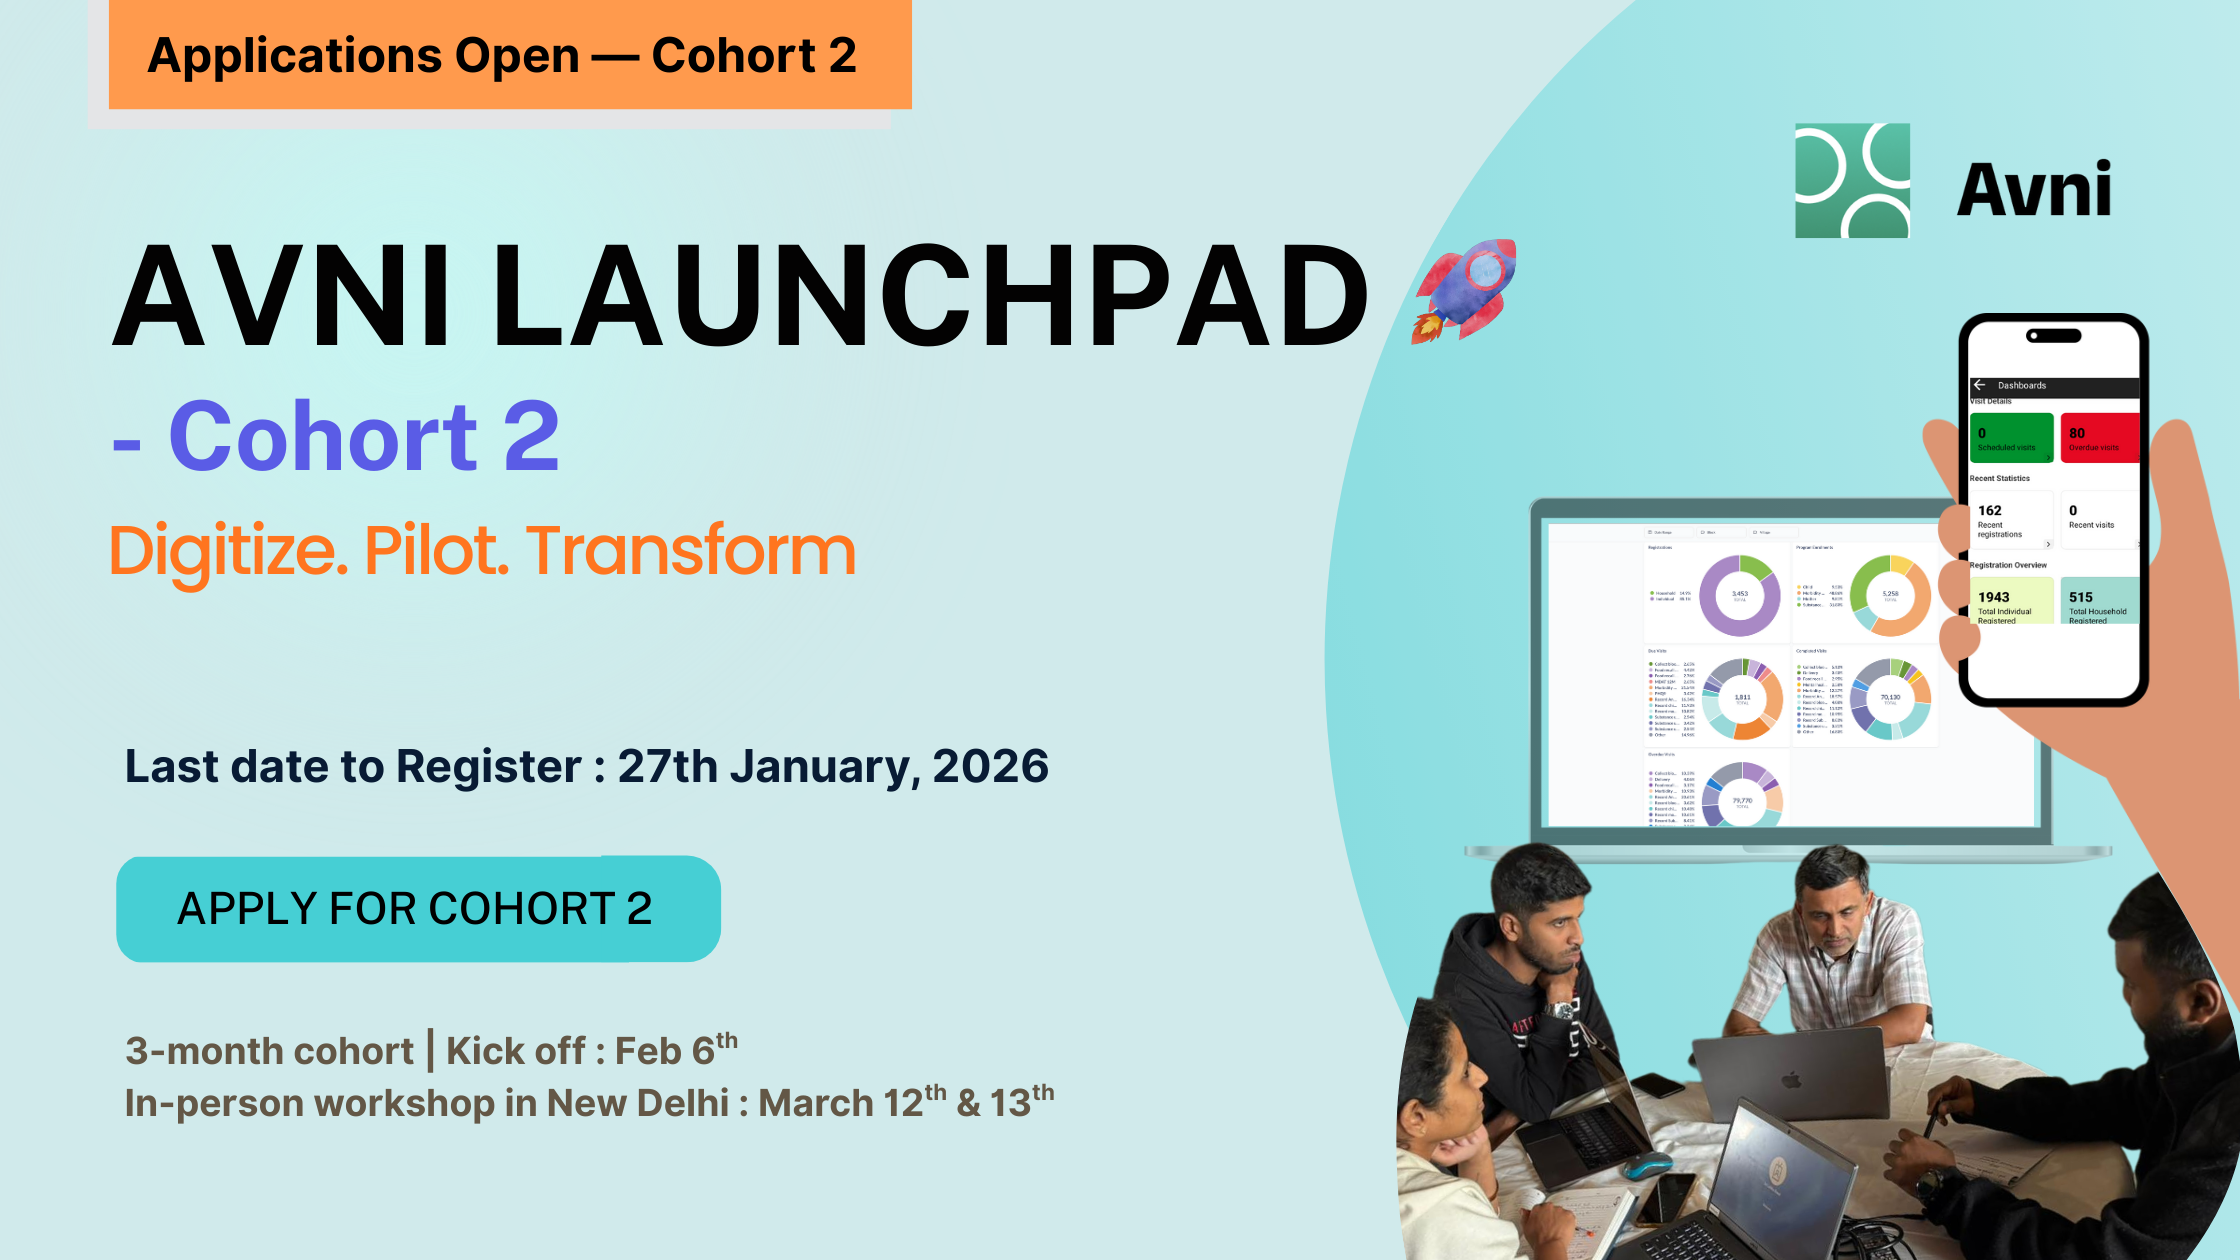
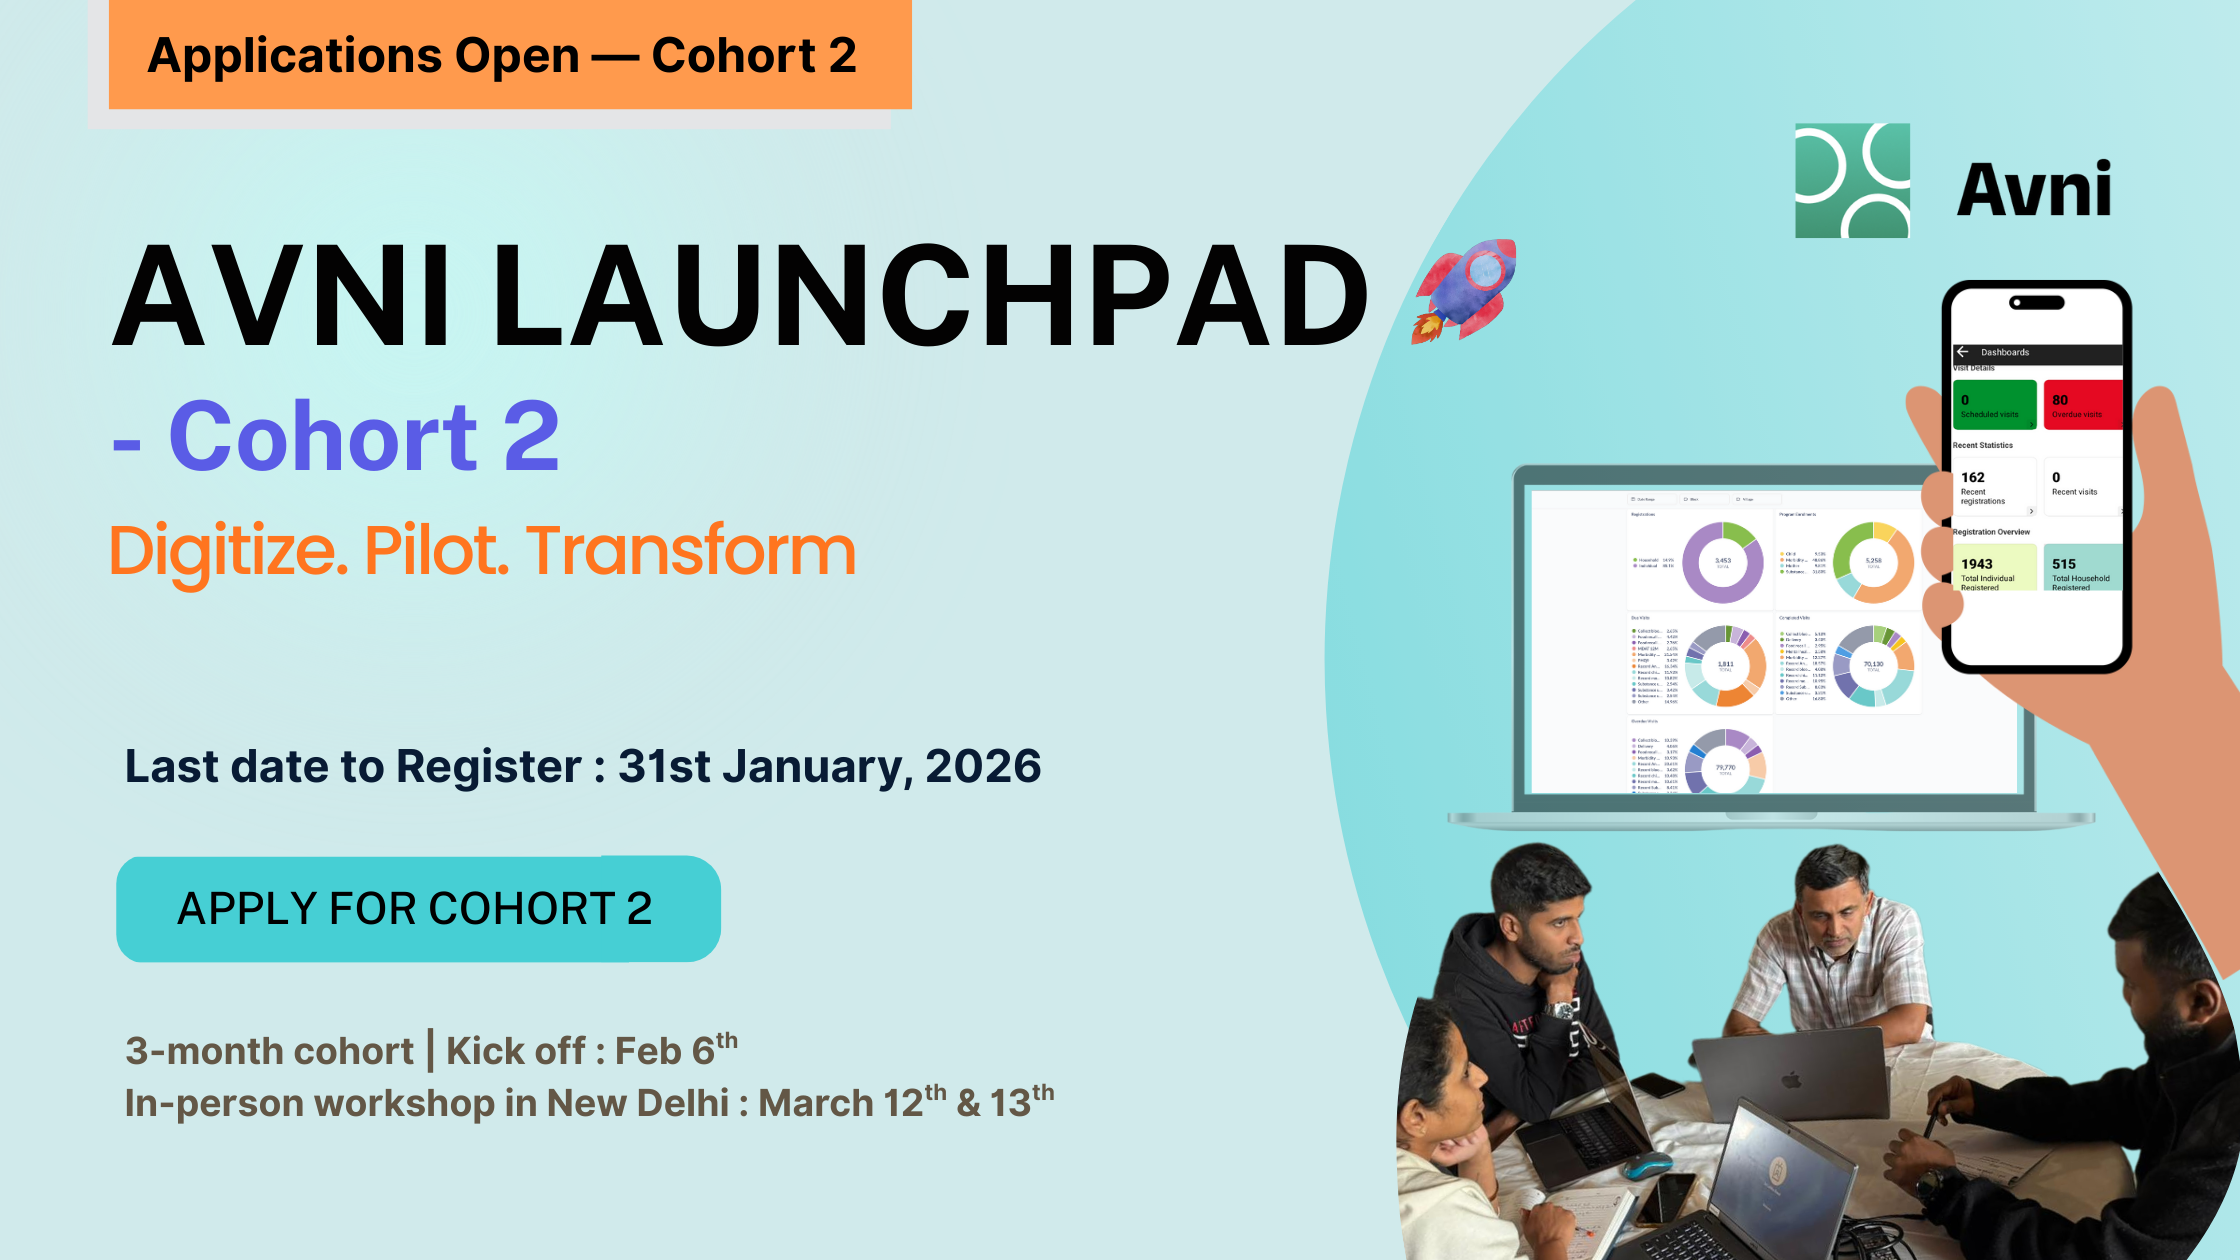
Change in last date cohort -2

Changed region(s): [[0.6562, 0.2167, 1.0, 0.7119], [0.2812, 0.5881, 0.4688, 0.65], [0.9688, 0.7738, 1.0, 0.8048]]

diff --git a/src/pages/blog/2026-01-08-avni-launchpad-cohort-2-announcement.md b/src/pages/blog/2026-01-08-avni-launchpad-cohort-2-announcement.md
@@ -73,7 +73,7 @@ You are an NGO who has
 | Week       | Date            | Event                                                 |
 |------------|-----------------|-------------------------------------------------------|
 | Week 1     | Jan 7           | Program announced                                     |
-| Week 4     | Jan 27          | Application submissions closed                        |
+| Week 4     | Jan 31          | Application submissions closed                        |
 | Week 5     | Feb 3           | Cohort finalised                                      |
 | Week 5     | Feb 6           | Online Orientation meeting                            |
 | Week 6-9   | Feb 9 - Mar 8   | Scoping and App design                                |
